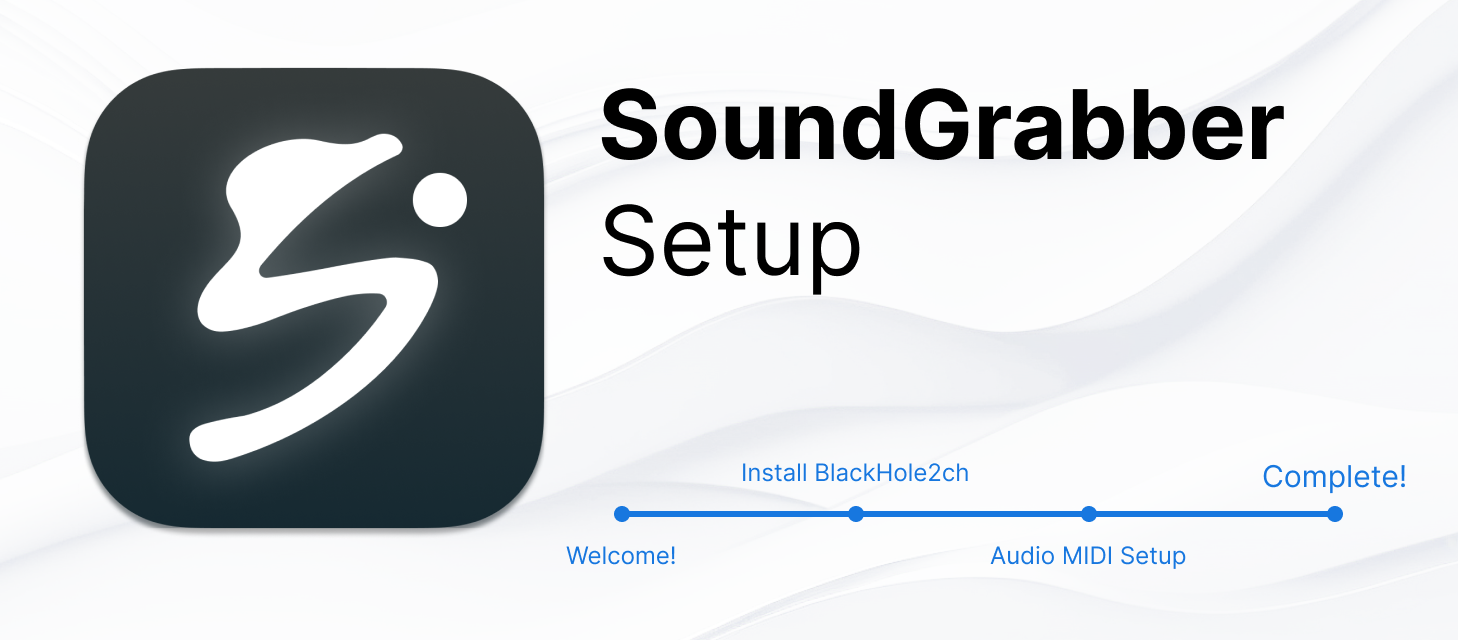
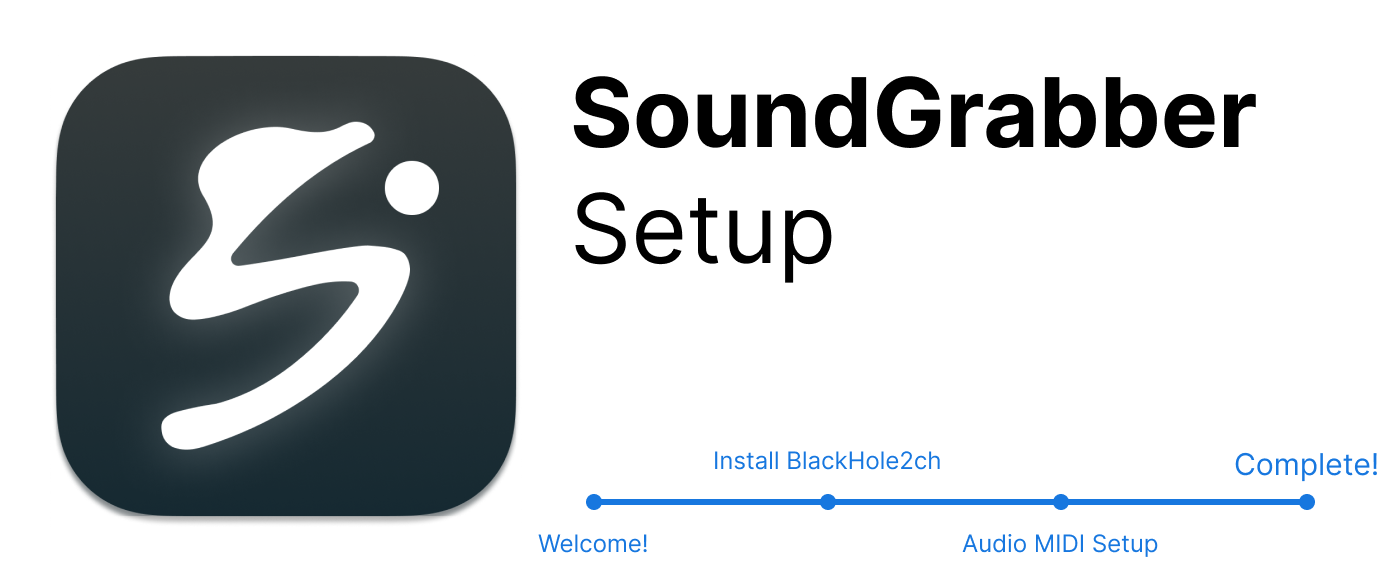
Update setup wizard design with background image
- Added background image to setup wizard window
- Maintained white title bar appearance
- Improved visual hierarchy with layered background
- Added background.png to setup resources
- Updated DATA_FILES to include new background asset

diff --git a/setup_wizard.py b/setup_wizard.py
@@ -191,15 +191,24 @@ Click 'Continue' when done.""",
         self.window.setTitlebarAppearsTransparent_(True)
         self.window.setMovableByWindowBackground_(True)
         
-        # Create content view with same background color
+        # Create content view
         self.content = AppKit.NSView.alloc().initWithFrame_(
             AppKit.NSMakeRect(0, 0, 800, 600)
         )
         self.content.setWantsLayer_(True)
-        self.content.layer().setBackgroundColor_(background_color.CGColor())
-        self.content.layer().setCornerRadius_(12.0)
         
-        # Update text colors to dark for better contrast
+        # Add background image first
+        background_image_path = resource_path(os.path.join("resources", "setup", "background.png"))
+        if os.path.exists(background_image_path):
+            background_image = AppKit.NSImage.alloc().initWithContentsOfFile_(background_image_path)
+            background_imageview = AppKit.NSImageView.alloc().initWithFrame_(
+                AppKit.NSMakeRect(0, 0, 800, 600)
+            )
+            background_imageview.setImage_(background_image)
+            background_imageview.setImageScaling_(AppKit.NSImageScaleAxesIndependently)
+            self.content.addSubview_(background_imageview)
+        
+        # Create content view with same background color
         self.title_label = AppKit.NSTextField.alloc().initWithFrame_(
             AppKit.NSMakeRect(40, 520, 720, 40)
         )
@@ -230,47 +239,56 @@ Click 'Continue' when done.""",
         self.text_view.setFont_(AppKit.NSFont.systemFontOfSize_(14))
         self.text_view.setTextColor_(AppKit.NSColor.blackColor())  # Dark text
         
-        # Add modern button with refined style
+        # Create button with system default styling
         self.button = AppKit.NSButton.alloc().initWithFrame_(
-            AppKit.NSMakeRect(640, 40, 120, 32)
+            AppKit.NSMakeRect(640, 40, 120, 36)
         )
-        self.button.setWantsLayer_(True)
-        self.button.layer().setCornerRadius_(16.0)
         
-        # Light gray background
-        button_bg_color = AppKit.NSColor.colorWithCalibratedRed_green_blue_alpha_(
-            0.85,   # Light gray
-            0.85,
-            0.85,
-            1.0
-        )
-        self.button.layer().setBackgroundColor_(button_bg_color.CGColor())
-        
-        # Add subtle shadow for depth
-        self.button.layer().setShadowColor_(AppKit.NSColor.blackColor().CGColor())
-        self.button.layer().setShadowOffset_(AppKit.NSMakeSize(0, 1))
-        self.button.layer().setShadowOpacity_(0.1)
-        self.button.layer().setShadowRadius_(2.0)
-        
+        # Try a different button type
+        self.button.setBezelStyle_(AppKit.NSBezelStyleRounded)  # Changed to Rounded
+        self.button.setButtonType_(AppKit.NSButtonTypeMomentaryPushIn)
         self.button.setBordered_(False)
+        
+        # Set button properties
+        self.button.setTitle_("Start Setup")
         self.button.setTarget_(self)
         self.button.setAction_("nextStep:")
         
-        # Set button title with darker, bolder text
-        button_title = AppKit.NSAttributedString.alloc().initWithString_attributes_(
-            "Start Setup",
-            {
-                AppKit.NSForegroundColorAttributeName: AppKit.NSColor.colorWithCalibratedRed_green_blue_alpha_(0.2, 0.2, 0.2, 1.0),  # Darker text
-                AppKit.NSFontAttributeName: AppKit.NSFont.systemFontOfSize_weight_(13, AppKit.NSFontWeightSemibold)  # Semibold weight
-            }
-        )
-        self.button.setAttributedTitle_(button_title)
+        # Set font
+        self.button.setFont_(AppKit.NSFont.systemFontOfSize_weight_(13, AppKit.NSFontWeightSemibold))
         
-        # Add all views to content
+        # Set the gray color that worked well
+        self.button.setWantsLayer_(True)
+        self.button.layer().setCornerRadius_(8.0)
+        self.button.layer().setBorderWidth_(0)
+        self.button.layer().setMasksToBounds_(True)
+        self.button.layer().setBackgroundColor_(
+            AppKit.NSColor.systemGrayColor().CGColor()
+        )
+        
+        # Add subtle shadow
+        self.button.layer().setShadowColor_(AppKit.NSColor.blackColor().CGColor())
+        self.button.layer().setShadowOffset_(AppKit.NSMakeSize(0, 2))
+        self.button.layer().setShadowOpacity_(0.2)
+        self.button.layer().setShadowRadius_(4.0)
+        
+        # White text
+        attrs = {
+            AppKit.NSFontAttributeName: AppKit.NSFont.systemFontOfSize_weight_(13, AppKit.NSFontWeightSemibold),
+            AppKit.NSForegroundColorAttributeName: AppKit.NSColor.whiteColor()
+        }
+        title_string = AppKit.NSAttributedString.alloc().initWithString_attributes_("Start Setup", attrs)
+        self.button.setAttributedTitle_(title_string)
+        
+        # Make sure button is in front and clickable
+        self.button.setWantsLayer_(True)
+        self.button.layer().setZPosition_(1)
+        
+        # Add views in correct order
+        self.content.addSubview_(self.button)
         self.content.addSubview_(self.title_label)
         self.content.addSubview_(self.image_view)
         self.content.addSubview_(self.text_view)
-        self.content.addSubview_(self.button)
         
         self.window.setContentView_(self.content)
         self.update_content()

diff --git a/setup.py b/setup.py
@@ -31,7 +31,8 @@ DATA_FILES = [
         'resources/setup/welcome.png',
         'resources/setup/blackhole_install.png',
         'resources/setup/audio_midi_setup.png',
-        'resources/setup/complete.png'
+        'resources/setup/complete.png',
+        'resources/setup/background.png'
     ]),
     ('installers', [
         'installers/BlackHole2ch-0.6.0.pkg',
